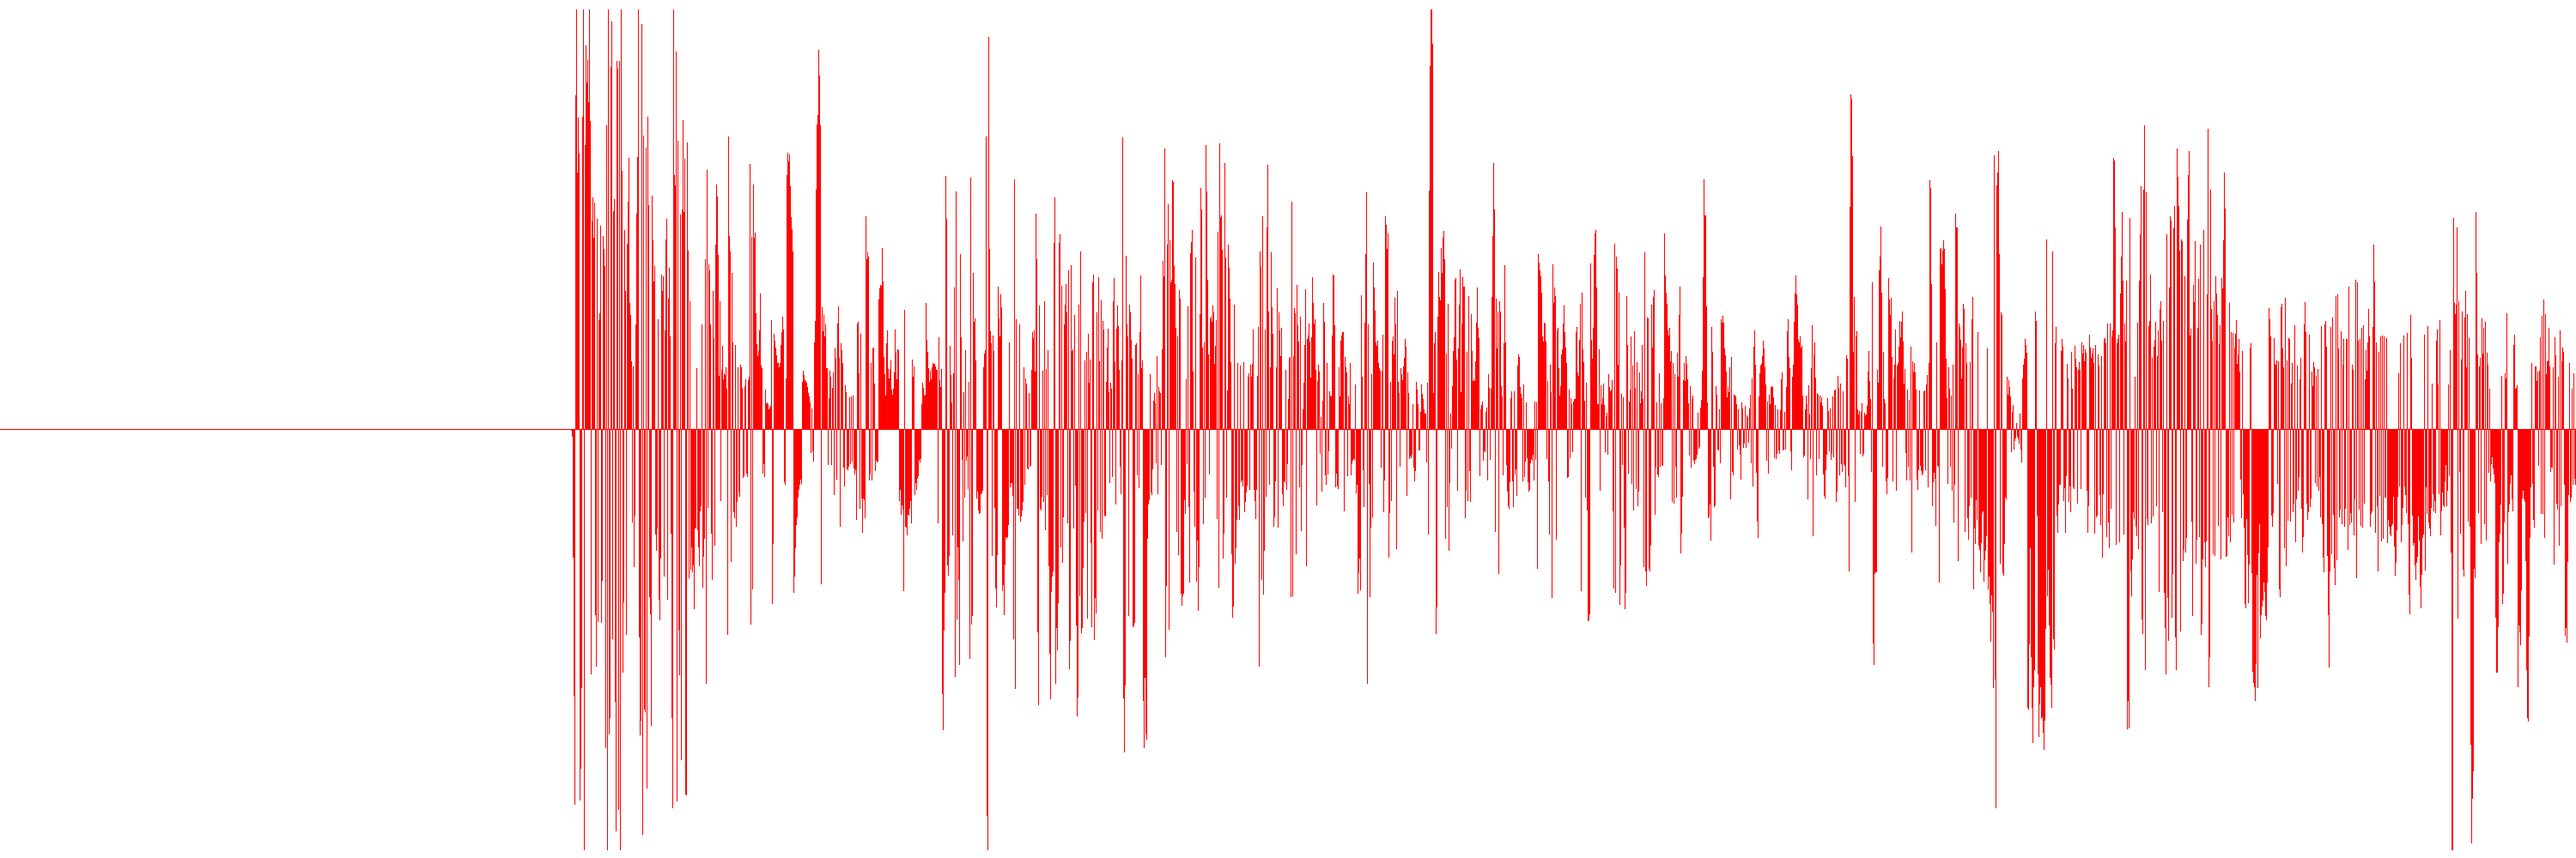
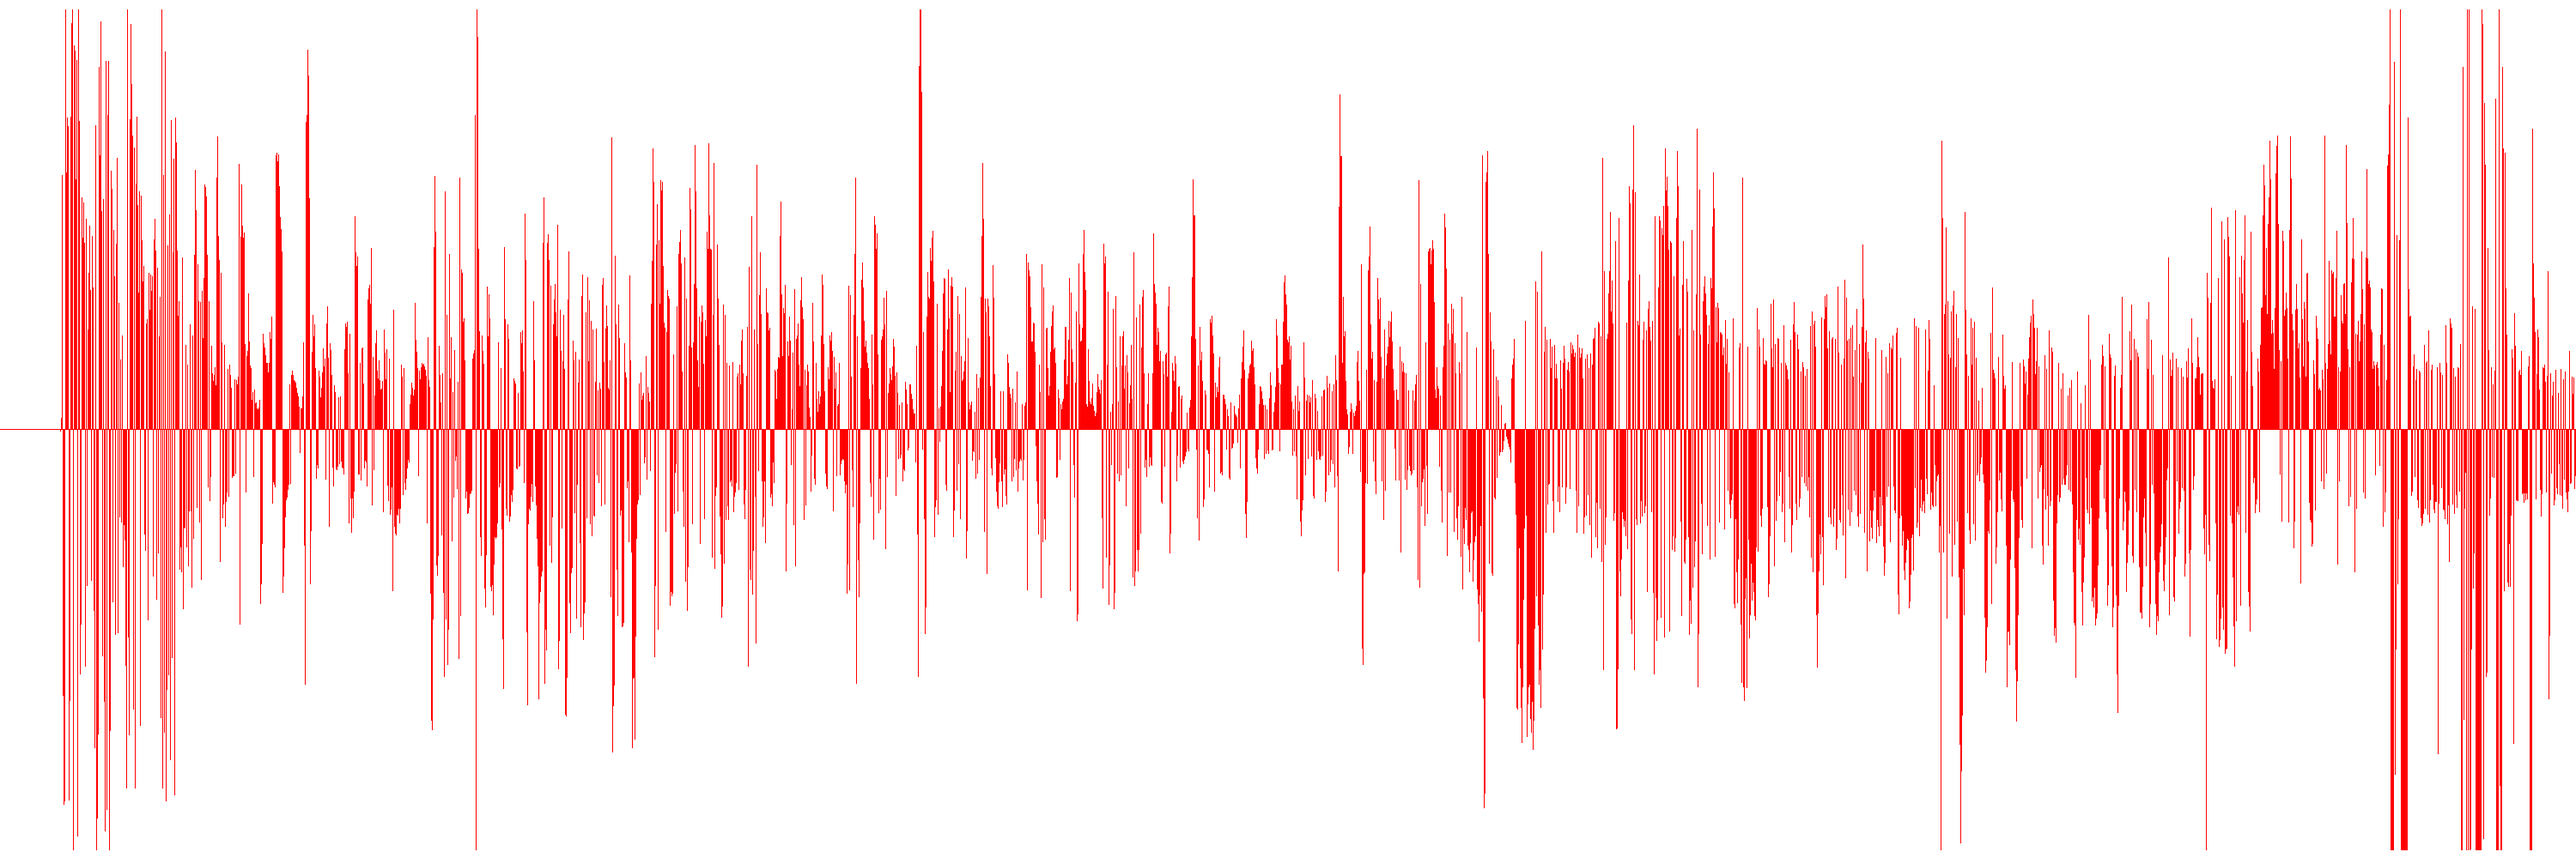
updated comments

Changed region(s): [[0.0, 0.062, 1.0, 0.992]]

diff --git a/README.md b/README.md
@@ -39,3 +39,39 @@ Files can be binary files, such as raw audio track:
 	audio.png saved 9192709px
 
 ![My image](img/audio.png)
+
+Files can also be floats in text format:
+
+        cat hist.txt
+	1.35
+	1.50
+	1.09
+	0.73
+	1.59
+	1.43
+	1.21
+	1.11
+	1.11
+	0.68
+	0.82
+	1.82
+	1.64
+	2.46
+	1.81
+	2.26
+	1.63
+	...
+	
+	./hist ../51130591/hist.txt 
+	scanning input
+	c=1418 min=0.150000 max=33.670000 avg=4.360035 zero=0.00, vpl=1.00 [1438x1000]
+	generating background
+	processing image
+	out.png saved 179241px
+
+![My image](img/data.png)
+
+Bugs
+-----------
+
+Yes.
